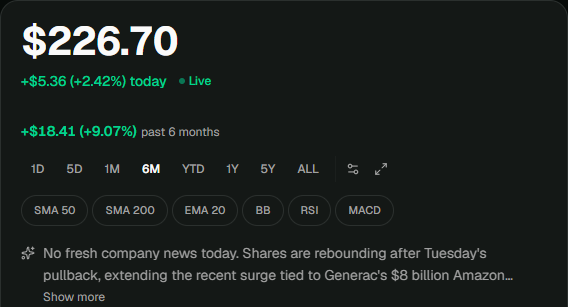
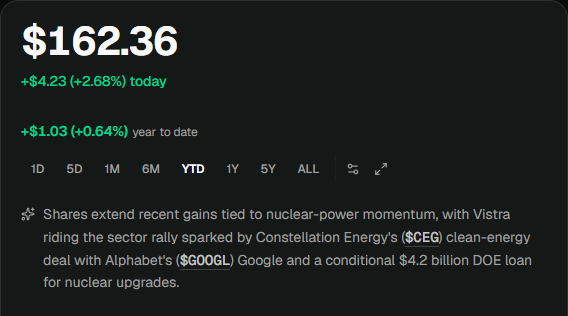
design(landing): Why Today sample names a real catalyst
The old capture said 'No company news today', which shows off nothing.
The new one recreates a real day: VST's close on 2026-10-13 with the
answer the app gave that day (Constellation's Google deal, a $4.2B DOE
loan). Same capture on the landing bento and the upgrade page, light and
dark; the README records how it was made.

diff --git a/app/upgrade/page.tsx b/app/upgrade/page.tsx
@@ -327,7 +327,7 @@ function UpgradeContent() {
               </Beat>
               {/* Generic on purpose: the capture shows another stock, so naming theirs would mislabel it. */}
               <Beat time={t('upgradeBeatWhyTime')} title={t('upgradeBeatWhyTitleGeneric')} desc={t('upgradeBeatWhyDesc')}>
-                <Shot src="/screenshots/bento-why.png" darkSrc="/screenshots/bento-why-dark.png" alt={t('upgradeBeatWhyAlt')} width={568} height={307} />
+                <Shot src="/screenshots/bento-why.png" darkSrc="/screenshots/bento-why-dark.png" alt={t('upgradeBeatWhyAlt')} width={568} height={316} />
               </Beat>
               <Beat time={t('upgradeBeatAskTime')} title={t('upgradeBeatAskTitle')} desc={t('upgradeBeatAskDesc')}>
                 {/* Questions only: an invented answer would be a fake product shot. */}

diff --git a/components/landing/Benefits.tsx b/components/landing/Benefits.tsx
@@ -57,8 +57,8 @@ const BENEFITS: Benefit[] = [
   {
     title: 'Know why a stock moved.',
     body: "BullPen reads the day's news and filings and tells you why in a sentence or two. Free for your biggest mover each day, any stock with Pro.",
-    file: 'bento-why.png', width: 568, height: 307, shotWidth: 540,
-    alt: "Reddit up 4.98% today, explained: no company news, shares bounced off a support level they have held since July",
+    file: 'bento-why.png', width: 568, height: 316, shotWidth: 540,
+    alt: "Vistra up 2.68% today, explained: a rally in nuclear power stocks after Constellation Energy's deal with Google and a $4.2 billion Energy Department loan",
   },
   {
     title: 'Your market in a minute, every morning.',

diff --git a/public/screenshots/README.md b/public/screenshots/README.md
@@ -20,8 +20,8 @@ is used by both:
 | `bento-plain-english.png` | `/stock/NVDA` `#nav-statistics` (Key Numbers), beginner mode | Benefits |
 | `bento-health.png` | `/stock/NVDA` `#nav-health` (Financial Health) | Benefits |
 | `bento-portfolio.png` | `/dashboard` "Your portfolio" section | Benefits |
-| `bento-why.png` | `/stock/<ticker>` price card down to the one-line Why reason | Benefits, `/upgrade` (light) |
-| `bento-why-dark.png` | Same shot in dark mode, same size and crop (568x307) | `/upgrade` (dark) |
+| `bento-why.png` | `/stock/VST` price card (YTD range) down to the expanded Why reason, a recreated day (see below) | Benefits, `/upgrade` (light) |
+| `bento-why-dark.png` | Same shot in dark mode, same size and crop (568x316) | `/upgrade` (dark) |
 | `bento-brief.png` | `/dashboard` "Daily brief" section | Benefits, `/upgrade` (light) |
 | `bento-brief-dark.png` | Same shot in dark mode, same size and crop (568x231) | `/upgrade` (dark) |
 | `tour-academy.png` | `/academy`, below the nav | Benefits |
@@ -43,7 +43,7 @@ server, through the Playwright browser tool.
    (`whytoday:v2:<date>:en:<TICKER>` in Redis), so nothing is generated.
 3. Viewport `1280 x 800` for `tour-*`. The two upgrade-page bentos (`bento-brief`, `bento-why`) are 568px wide, which is a
    **600px-wide** viewport (600 minus the 16px gutters): `bento-brief` clips 568x231 from the Daily brief
-   `<section>`'s top-left, `bento-why` clips 568x307 from the price card's top-left (its rounded border included).
+   `<section>`'s top-left, `bento-why` clips 568x316 from the price card's top-left (its rounded border included), down to the reason.
    Clip a fixed size rather than shooting the element, whose fractional height rounds to 232. Take the `-dark`
    twin with `settings.theme = 'dark'` and the exact same clip. Hide `nextjs-portal` and `button[title="Ask Bull"]`
    with an injected style. Element shots for `bento-*`; for `tour-*` clip
@@ -51,6 +51,20 @@ server, through the Playwright browser tool.
 4. Wait for live data before shooting: Holdings shows a partial total while a
    quote is still loading ("across 9 positions" instead of 10).
 5. Restore the account's settings.
+
+### `bento-why`: a recreated day
+
+The sample has to name a real catalyst ("no company news today" sells
+nothing), and today rarely has a cached one. So the shot recreates a real past
+day instead: VST on 2026-10-13, its real close ($162.36, +$4.23 from $158.13)
+and the real cached answer from `whytoday:v2:2026-10-13:en:VST`. Shot the next
+morning before the open, when the snapshot quote is still that close, with
+Playwright `page.route` serving the old answer to `/api/stock/VST/why-today-cached`,
+`{ success: true, data: null }` to `/extended-hours` (or the pre-market move
+replaces the close and hides the answer) and aborting `/api/market/prices`.
+"Show more" clicked, then the toggle, the indicator chip row and the app header hidden: at 568x316 it just fits the landing card's 300px cap at 540 wide. Never pair an
+answer with a different day's price, and never write an answer by hand: every
+word in it should be something the app really said about that day.
 
 Check every capture by eye before committing: no QA name, no half-loaded
 skeletons, no number that only makes sense for the test account.
